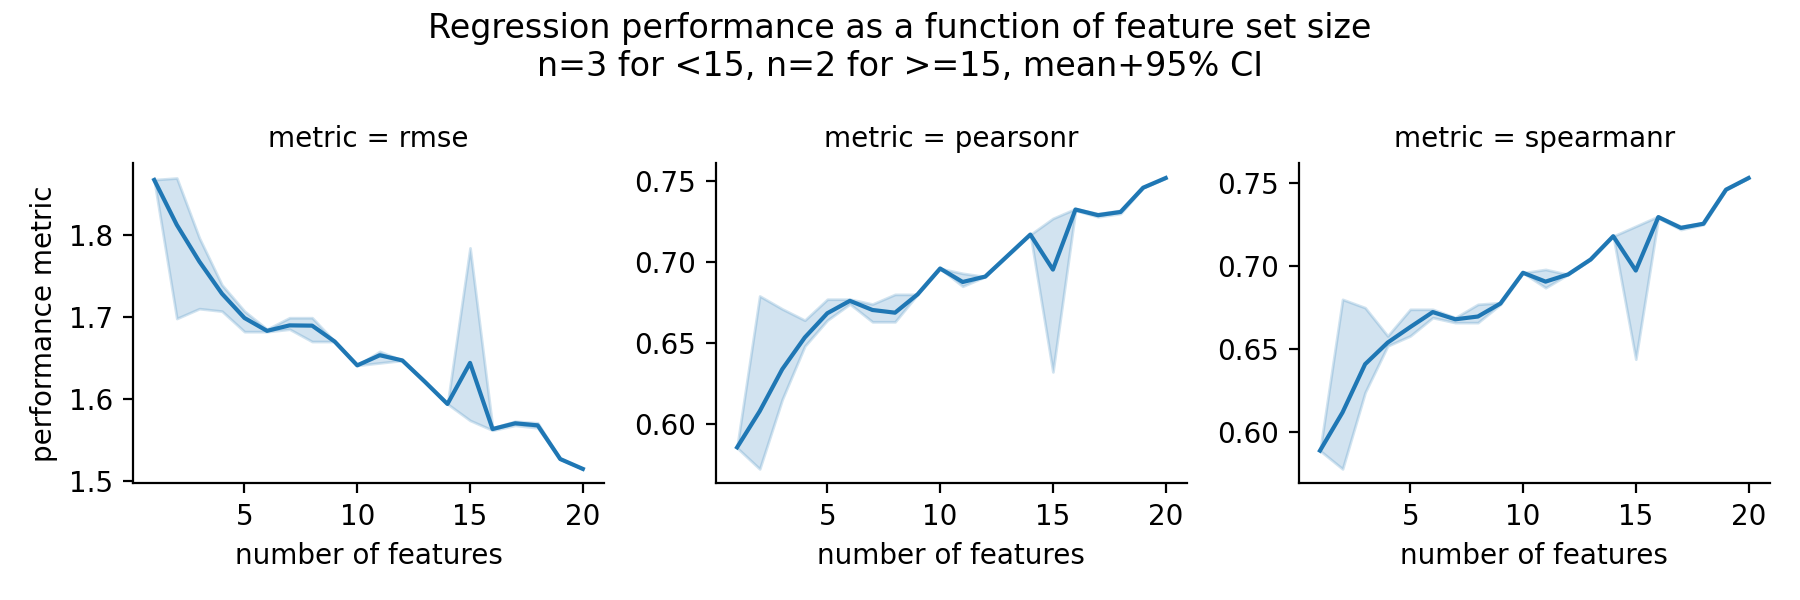
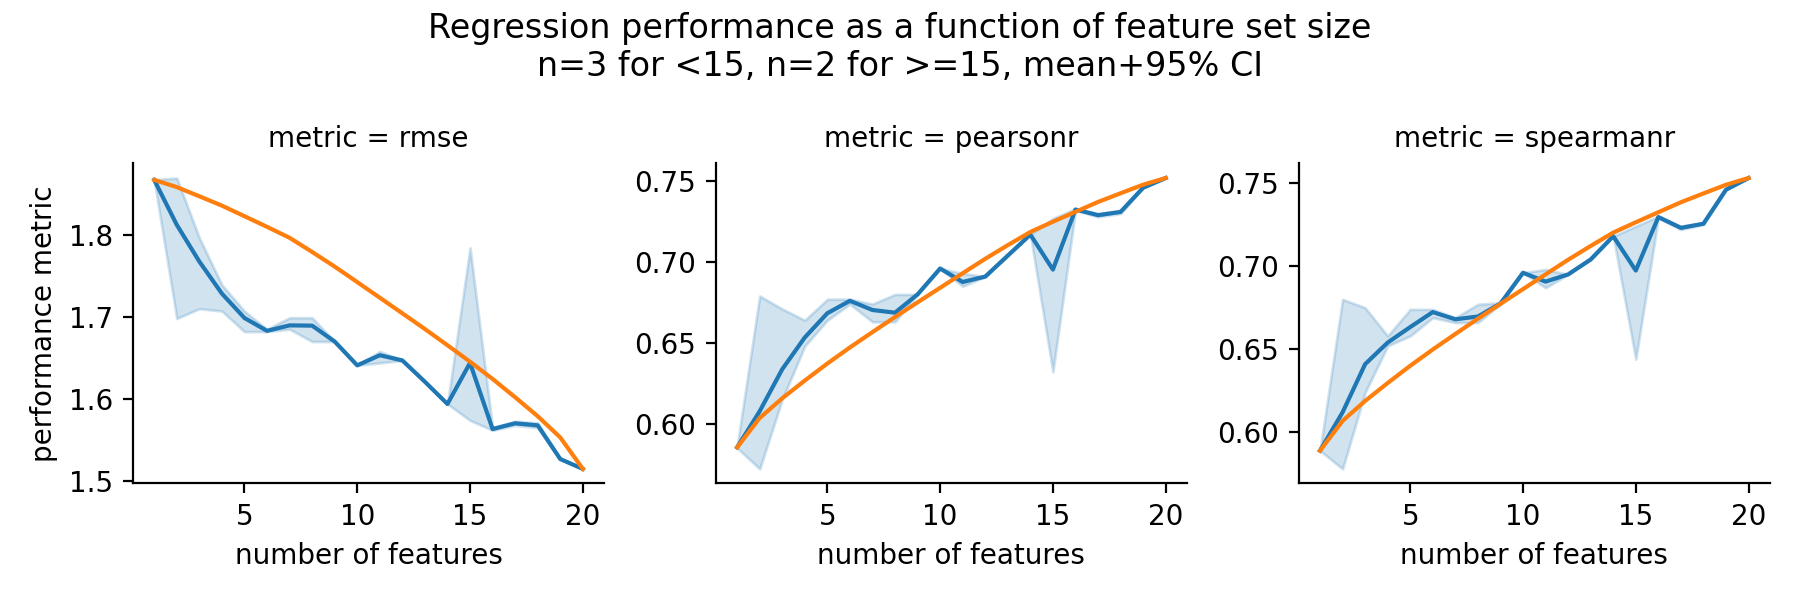
Added expected relevance curves.

diff --git a/plot_feature_addition.py b/plot_feature_addition.py
@@ -53,9 +53,16 @@ def read_in_results(sample_directory):
     result_data.columns = ['sample_size', 'lml', 'rmse', 'pearsonr', 'spearmanr']
     return result_data[['sample_size','rmse','pearsonr','spearmanr']].sort_values('sample_size')
 
-def plot_feature_add(data, target_dir):
+
+def plot_feature_add(data, rescaled_relevance, target_dir):
+
     plot_data = pd.melt(data, id_vars='sample_size', var_name='metric')
-    g = sns.FacetGrid(plot_data, col='metric', sharey=False)
+    plot_relevance = pd.melt(rescaled_relevance, id_vars='sample_size', var_name='metric')
+    plot_relevance['relevance'] = ["calculated"]*len(plot_relevance.index)
+    plot_data['relevance'] = ["experimental"] * len(plot_data.index)
+    plot_combined = pd.concat([plot_data,plot_relevance], ignore_index=True)
+
+    g = sns.FacetGrid(plot_combined, col='metric', hue='relevance', sharey=False)
     g.map(sns.lineplot, 'sample_size', 'value', estimator='mean', ci=95)
     g.set_axis_labels("number of features", "performance metric")
     g.despine()
@@ -66,4 +73,21 @@ def plot_feature_add(data, target_dir):
 
 if __name__ == '__main__':
     results = read_in_results(output_directory+'/'+'adding_features_all')
-    plot_feature_add(results, result_directory)
+    relevance = [0.164419, 0.091007, 0.061295, 0.054885, 0.052883, 0.049884, 0.047604,
+                 0.046830, 0.045457, 0.045169, 0.045155, 0.044796, 0.042368, 0.040893,
+                 0.031758, 0.030688, 0.030566, 0.027043, 0.026590, 0.020711]
+    relevance = np.array([sum(relevance[:i+1]) for i in range(0, len(relevance))])
+    means = results.groupby('sample_size').mean()
+
+    reverse_relevance = np.flip(relevance)
+    rescaled_rmse = np.interp(reverse_relevance, (reverse_relevance.min(), reverse_relevance.max()),
+                                  (means['rmse'].min(), means['rmse'].max())).tolist()
+    rescaled_pearsonr = np.interp(relevance, (relevance.min(), relevance.max()),
+                                  (means['pearsonr'].min(), means['pearsonr'].max())).tolist()
+    rescaled_spearmanr = np.interp(relevance, (relevance.min(), relevance.max()),
+                                  (means['spearmanr'].min(), means['spearmanr'].max())).tolist()
+
+    tuples = list(zip(range(1,len(relevance)+1), rescaled_rmse, rescaled_pearsonr, rescaled_spearmanr))
+    rescaled_df = pd.DataFrame(tuples, columns=['sample_size', 'rmse', 'pearsonr', 'spearmanr'])
+
+    plot_feature_add(results, rescaled_df, result_directory)
